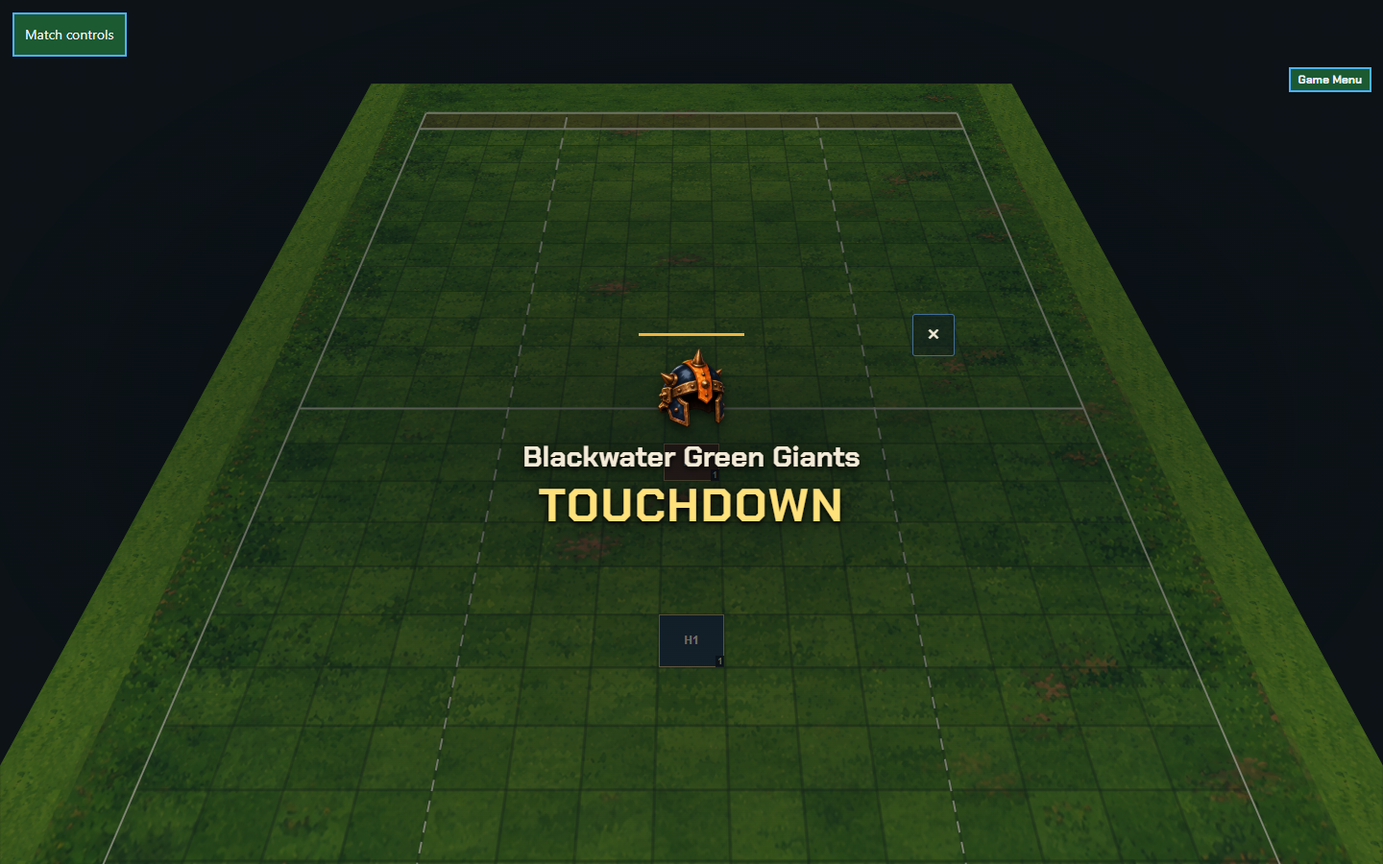
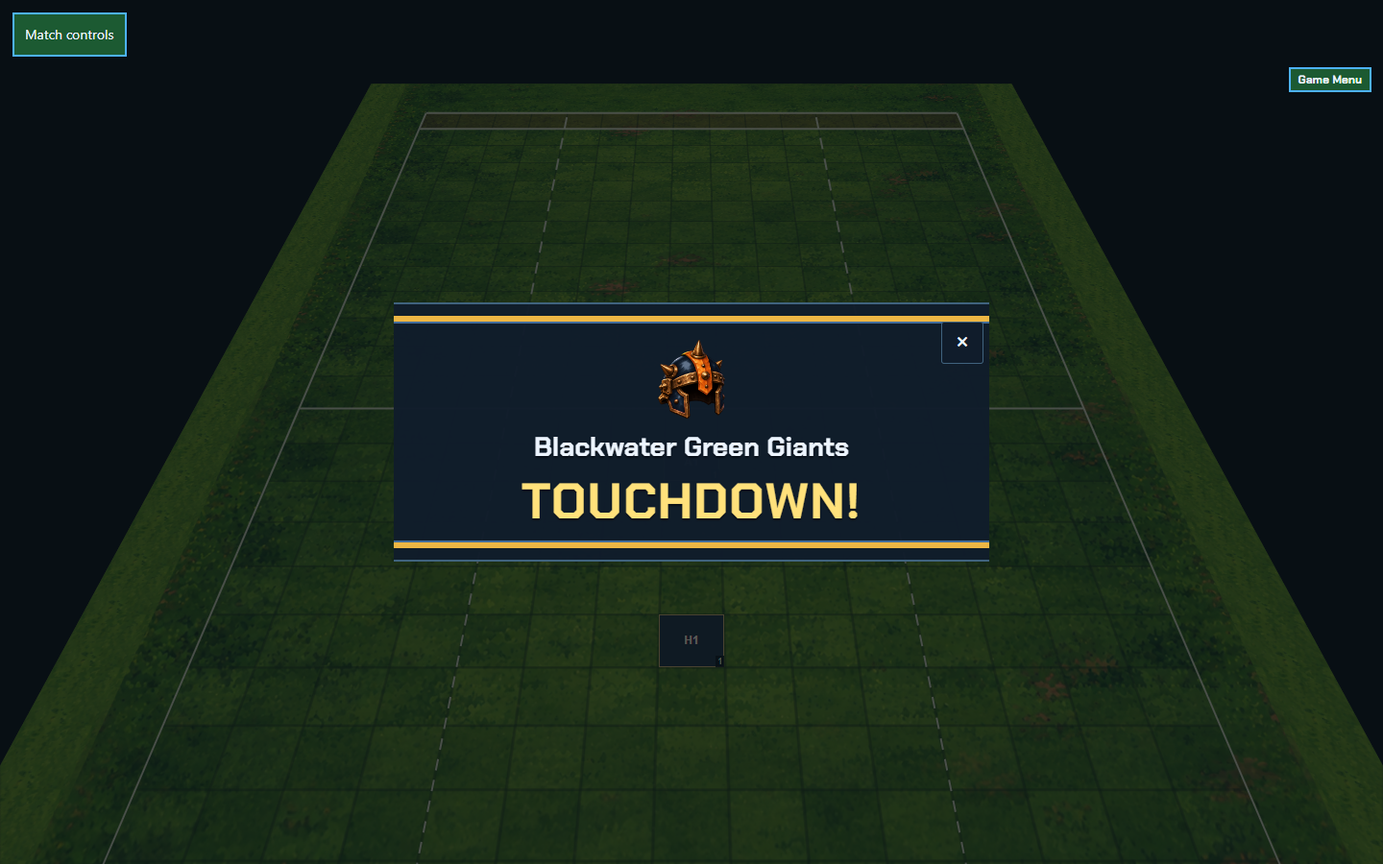
feat: animate core match splashes with phased playback (#565)

diff --git a/browser-client/src/match-splash.css b/browser-client/src/match-splash.css
@@ -1,43 +1,53 @@
 .live-pitch-viewport:has(.match-splash-shade) { isolation: isolate; }
 .match-splash-shade {
   position: absolute; inset: 0; z-index: 160; display: grid; justify-items: center; align-items: safe center;
-  padding: clamp(12px, 3vw, 40px); background: radial-gradient(ellipse at center, #050a12b8, #050a1266 75%); overflow: auto; overscroll-behavior: contain;
+  padding: clamp(12px, 3vw, 40px); background: #050a12aa; overflow: auto; overscroll-behavior: contain;
   cursor: default; box-sizing: border-box;
-  animation: match-splash-dim-in calc(200ms / var(--splash-rate, 1)) linear both;
+  animation: match-splash-dim-in calc(150ms / var(--splash-rate, 1)) linear both;
 }
 .play-runtime .match-splash-shade .match-splash {
-  --splash-accent: #edb644; --splash-secondary: #426c9b;
-  position: relative; isolation: isolate; width: min(560px, 100%); box-sizing: border-box;
-  margin: 0; padding: clamp(16px, 2.4vw, 26px); border: 0; border-radius: 0;
-  color: #f3ead7;
-  background: none; box-shadow: none; text-shadow: 0 2px 5px #000, 0 0 20px #0009;
+  --splash-accent: #edb644; --splash-secondary: #426c9b; --splash-direction: -1;
+  position: relative; isolation: isolate; width: min(620px, 100%); box-sizing: border-box;
+  margin: 0; padding: clamp(20px, 3vw, 36px); border: 0; border-radius: 0;
+  color: #edf5ff; background: none; box-shadow: none; text-shadow: 0 2px 2px #070d16;
   text-align: center; font-family: MUTP, sans-serif; overflow-wrap: anywhere;
-  animation: match-splash-enter calc(200ms / var(--splash-rate, 1)) linear both;
 }
-.play-runtime .match-splash-shade .match-splash-rule { height: 3px; background: var(--splash-accent); width: 44px; margin: 0 auto 10px; }
-.play-runtime .match-splash-shade .match-splash-icon { width: clamp(58px, 8vw, 88px); height: clamp(58px, 8vw, 88px); margin: 0 auto 10px; }
-.play-runtime .match-splash-shade .match-splash-icon .match-art { display: block; width: 100%; height: 100%; filter: drop-shadow(0 5px 5px #0008); }
-.play-runtime .match-splash-shade .match-splash .match-splash-team { margin: 0 0 8px; font-size: clamp(18px, 2.4vw, 30px); line-height: 1.2; }
-.play-runtime .match-splash-shade .match-splash h2 { margin: 0; font-family: MUTP, sans-serif; color: #ffe17b; font-size: clamp(27px, 3.7vw, 48px); line-height: 1.05; letter-spacing: .04em; }
-.play-runtime .match-splash-shade .match-splash-turnover h2 { color: #fff0d4; }
-.play-runtime .match-splash-shade .match-splash-turnover .match-splash-rule { width: 80px; background: repeating-linear-gradient(120deg,var(--splash-accent) 0 8px,transparent 8px 12px); }
-.play-runtime .match-splash-shade .match-splash-touchdown .match-splash-rule { width: 110px; }
-.play-runtime .match-splash-shade .match-splash-turnStart h2 { font-size: clamp(24px, 3.3vw, 42px); color: #d8e9fa; }
-.play-runtime .match-splash-shade .match-splash .match-splash-reason { font-family: inherit; margin: 16px auto 0; max-width: 48ch; font-size: clamp(16px, 1.8vw, 21px); line-height: 1.4; }
-.match-splash-shade[data-exiting=true] { animation: match-splash-dim-out calc(200ms / var(--splash-rate, 1)) ease-in both; }
-.play-runtime .match-splash-shade[data-exiting=true] .match-splash { animation: match-splash-exit calc(200ms / var(--splash-rate, 1)) ease-in both; }
+.play-runtime .match-splash-shade[data-team=away] .match-splash { --splash-direction: 1; }
+.match-splash-backdrop { position: absolute; inset: 0; z-index: -2; background: #101c2bf5; border-block: 2px solid #40637e; animation: splash-backdrop calc(150ms / var(--splash-rate, 1)) steps(4) both; }
+.match-splash-ribbon { position: absolute; inset: 14px 0; z-index: -1; border-block: 6px solid var(--splash-accent); box-shadow: inset 0 2px var(--splash-secondary), inset 0 -2px var(--splash-secondary); animation: splash-ribbon calc(200ms / var(--splash-rate, 1)) calc(150ms / var(--splash-rate, 1)) steps(5) both; }
+.play-runtime .match-splash-shade .match-splash-rule { display: none; }
+.play-runtime .match-splash-shade .match-splash-icon { width: clamp(58px, 8vw, 88px); height: clamp(58px, 8vw, 88px); margin: 0 auto 10px; animation: splash-impact calc(200ms / var(--splash-rate, 1)) calc(250ms / var(--splash-rate, 1)) steps(4) both; }
+.play-runtime .match-splash-shade .match-splash-icon .match-art { display: block; width: 100%; height: 100%; }
+.play-runtime .match-splash-shade .match-splash .match-splash-team { margin: 0 24px 12px; font-size: clamp(18px, 2.4vw, 28px); line-height: 1.2; text-wrap: balance; animation: match-splash-dim-in calc(150ms / var(--splash-rate, 1)) calc(550ms / var(--splash-rate, 1)) linear both; }
+.play-runtime .match-splash-shade .match-splash h2 { width: fit-content; max-width: 100%; margin: 0 auto; font-family: MUTP, sans-serif; color: #ffe17b; font-size: clamp(27px, 3.7vw, 52px); line-height: 1.05; letter-spacing: .025em; text-wrap: balance; animation: splash-impact calc(200ms / var(--splash-rate, 1)) calc(350ms / var(--splash-rate, 1)) steps(4) both; }
+.play-runtime .match-splash-shade .match-splash-turnover h2 { color: #edf5ff; }
+.play-runtime .match-splash-shade .match-splash-turnover { animation: splash-shake calc(150ms / var(--splash-rate, 1)) calc(450ms / var(--splash-rate, 1)) steps(3) both; }
+.match-splash-turnover .match-splash-ribbon { border-block-style: dashed; }
+.play-runtime .match-splash-shade .match-splash-turnStart h2 { font-size: clamp(24px, 3.3vw, 42px); color: #d9e9f7; animation-name: splash-turn; }
+.play-runtime .match-splash-shade .match-splash .match-splash-reason { font-family: inherit; margin: 16px auto 0; max-width: 48ch; font-size: clamp(16px, 1.8vw, 21px); line-height: 1.4; animation: match-splash-dim-in calc(150ms / var(--splash-rate, 1)) calc(550ms / var(--splash-rate, 1)) linear both; }
+.match-splash-shade[data-exiting=true] { animation: match-splash-dim-out calc(200ms / var(--splash-rate, 1)) linear both; }
+.play-runtime .match-splash-shade[data-exiting=true] .match-splash { animation: match-splash-exit calc(200ms / var(--splash-rate, 1)) steps(4) both; }
 @keyframes match-splash-dim-in { from { opacity: 0; } to { opacity: 1; } }
 @keyframes match-splash-dim-out { from { opacity: 1; } to { opacity: 0; } }
-@keyframes match-splash-enter { from { filter: blur(1.5px); } to { filter: blur(0); } }
-@keyframes match-splash-exit { from { filter: blur(0); transform: translateY(0); } to { filter: blur(3px); transform: translateY(-11px) scale(.95); } }
+@keyframes splash-backdrop { from { transform: scaleX(0); opacity: 0; } to { transform: scaleX(1); opacity: 1; } }
+@keyframes splash-ribbon { from { transform: scaleX(0); opacity: 0; } to { transform: scaleX(1); opacity: 1; } }
+@keyframes splash-impact { 0% { transform: translateY(-28px) scale(1.06); opacity: 0; } 65% { transform: translateY(3px) scale(.97); opacity: 1; } 100% { transform: translateY(0) scale(1); opacity: 1; } }
+@keyframes splash-turn { from { transform: scale(.96); opacity: 0; } to { transform: scale(1); opacity: 1; } }
+@keyframes splash-shake { 0%,100% { transform: translateX(0); } 33% { transform: translateX(-4px); } 66% { transform: translateX(4px); } }
+@keyframes match-splash-exit { from { transform: scaleX(1); opacity: 1; } to { transform: scaleX(.92); opacity: 0; } }
 @media(prefers-reduced-motion: reduce) {
-  .match-splash-shade, .play-runtime .match-splash-shade .match-splash { animation: none; }
-  .match-splash-shade[data-exiting=true] { visibility: hidden; }
+  .play-runtime .match-splash-shade .match-splash, .play-runtime .match-splash-shade .match-splash :is(.match-splash-icon, .match-splash-team, .match-splash-reason, h2, div) { animation: none; }
+  .play-runtime .match-splash-shade[data-exiting=true] .match-splash { animation: none; }
 }
 @media(max-height: 500px) {
   .play-runtime .match-splash-shade .match-splash-icon { width: 42px; height: 42px; margin-bottom: 4px; }
-  .play-runtime .match-splash-shade .match-splash { padding: 12px; }
+  .play-runtime .match-splash-shade .match-splash { padding: 20px; }
 }
-
-.play-runtime .match-splash-shade .match-splash-close { position: absolute; top: 6px; right: 6px; display: grid; place-items: center; width: 44px; height: 44px; min-height: 44px; margin: 0; padding: 0; border: 1px solid var(--splash-secondary); border-radius: 3px; color: #f3ead7; background: #09132066; font: 24px/1 sans-serif; cursor: pointer; }
+.play-runtime .match-splash-shade .match-splash-close { position: absolute; z-index: 1; top: 20px; right: 6px; display: grid; place-items: center; width: 44px; height: 44px; min-height: 44px; margin: 0; padding: 0; border: 1px solid #40637e; border-radius: 3px; color: #edf5ff; background: #101c2b; font: 24px/1 sans-serif; cursor: pointer; }
 .play-runtime .match-splash-shade .match-splash-close:focus-visible { outline: 3px solid #ffe17b; outline-offset: 2px; }
+
+
+
+
+
+.match-splash-ribbon { transform-origin: left center; } .match-splash-shade[data-team=away] .match-splash-ribbon { transform-origin: right center; }

diff --git a/browser-client/src/use-pitch-playback.ts b/browser-client/src/use-pitch-playback.ts
@@ -36,6 +36,7 @@ export function usePitchPlayback(view: SetupState, records: TranscriptRecord[], 
   const pendingAnnouncement = useRef<{ id: string; closing: boolean; advance: () => void } | null>(null);
   const announcementTimer = useRef<ReturnType<typeof setTimeout> | null>(null);
   const announcementTransitionTimer = useRef<ReturnType<typeof setTimeout> | null>(null);
+  const announcementExitComplete = useRef<(() => void) | null>(null);
   const announced = useRef(new Set<string>());
   const presented = useRef(view), received = useRef(view), latest = useRef(view);
   // Observation only: the revision whose first beat is being committed can be
@@ -63,6 +64,7 @@ export function usePitchPlayback(view: SetupState, records: TranscriptRecord[], 
     if (timer.current) clearTimeout(timer.current);
     pendingBeat.current = null;
     pendingAnnouncement.current = null; setAnnouncement(null);
+    announcementExitComplete.current = null;
     setAnnouncementExiting(false);
     if (announcementTimer.current) clearTimeout(announcementTimer.current);
     announcementTimer.current = null;
@@ -329,9 +331,10 @@ export function usePitchPlayback(view: SetupState, records: TranscriptRecord[], 
   useLayoutEffect(() => {
     const pending = pendingAnnouncement.current;
     if (!announcementExiting || !pending) return;
-    const reduced = window.matchMedia?.('(prefers-reduced-motion: reduce)').matches ?? false;
-    announcementTransitionTimer.current = setTimeout(() => {
+    const complete = () => {
       if (pendingAnnouncement.current !== pending) return;
+      announcementExitComplete.current = null;
+      if (announcementTransitionTimer.current) clearTimeout(announcementTransitionTimer.current);
       setAnnouncement(null);
       announcementTransitionTimer.current = setTimeout(() => {
         if (pendingAnnouncement.current !== pending) return;
@@ -340,15 +343,18 @@ export function usePitchPlayback(view: SetupState, records: TranscriptRecord[], 
         setAnnouncementExiting(false);
         pending.advance();
       }, ANNOUNCEMENT_GAP_MS / playbackRate(currentSpeed.current, mode));
-    }, reduced ? 0 : DICE_EXIT_MS / playbackRate(currentSpeed.current, mode));
+    };
+    announcementExitComplete.current = complete;
+    announcementTransitionTimer.current = setTimeout(complete, DICE_EXIT_MS / playbackRate(currentSpeed.current, mode));
     return () => {
+      announcementExitComplete.current = null;
       if (announcementTransitionTimer.current) clearTimeout(announcementTransitionTimer.current);
       announcementTransitionTimer.current = null;
     };
   }, [announcementExiting, mode]);
   useLayoutEffect(() => {
     if (!announcement || announcementExiting || announcementPreferences.holdAnnouncements) return;
-    const timeout = setTimeout(dismissAnnouncement, announcementDuration(announcement, playbackRate(speed, mode)));
+    const timeout = setTimeout(dismissAnnouncement, announcementDuration(announcement, playbackRate(speed, mode)) - DICE_EXIT_MS / playbackRate(speed, mode));
     announcementTimer.current = timeout;
     return () => { clearTimeout(timeout); };
   }, [announcement, announcementExiting, announcementPreferences.holdAnnouncements, speed, mode]);
@@ -360,6 +366,7 @@ export function usePitchPlayback(view: SetupState, records: TranscriptRecord[], 
     setTick(value => value + 1);
   };
   return { pitchView, presentationRevision: active ? Math.max(pitchView.revision, presentationRevision.current, diceMoment?.revision ?? -1) : pitchView.revision, provisionalActive: !!provisional.current, playbackActive: active, diceMoment, synchronizing, movementDuration: moveMillis, beginProvisional,
-    announcement, announcementExiting, announcementRate: playbackRate(speed, mode), dismissAnnouncement, ...announcementPreferences,
+    announcement, announcementExiting, announcementRate: playbackRate(speed, mode), dismissAnnouncement,
+    finishAnnouncementExit: () => announcementExitComplete.current?.(), ...announcementPreferences,
     diceSnapshot: pitchView.revision === snapshotRevision.current };
 }

diff --git a/browser-client/src/MatchSplash.tsx b/browser-client/src/MatchSplash.tsx
@@ -1,20 +1,28 @@
 import { useTeamColorContext } from './TeamColorArtProvider.tsx';
-import { useEffect } from 'react';
+import { useEffect, useState } from 'react';
 import type { CSSProperties, ReactNode } from 'react';
 import { MatchArt } from './MatchScoreboard.tsx';
 import { announcementHeadline, announcementText } from './match-announcements.ts';
 import type { MatchAnnouncement } from './match-announcements.ts';
 import './match-splash.css';
+import { teamColorRamps } from './team-color-art.ts';
 
 export type MatchSplashProps = {
   announcement: MatchAnnouncement; onDismiss: () => void; hold: boolean;
-  exiting: boolean; rate: number;
+  exiting: boolean; rate: number; onExited?: () => void;
   icon?: ReactNode; colors?: { accent?: string; secondary?: string };
 };
 
 /** No focus transfer: Escape and the explicit button dismiss without reaching pitch shortcuts. */
-export function MatchSplash({ announcement, onDismiss, hold, exiting, rate, icon, colors }: MatchSplashProps) {
+export function MatchSplash({ announcement, onDismiss, hold, exiting, rate, icon, colors, onExited }: MatchSplashProps) {
   const teamColors = useTeamColorContext();
+  const [phase, setPhase] = useState<'enter' | 'impact' | 'hold'>('enter');
+  useEffect(() => {
+    setPhase('enter');
+    const impact = setTimeout(() => setPhase('impact'), 350 / rate);
+    const hold = setTimeout(() => setPhase('hold'), 700 / rate);
+    return () => { clearTimeout(impact); clearTimeout(hold); };
+  }, [announcement.id, rate]);
   useEffect(() => {
     const escape = (event: KeyboardEvent) => {
       if (event.key !== 'Escape') return;
@@ -24,9 +32,12 @@ export function MatchSplash({ announcement, onDismiss, hold, exiting, rate, icon
     window.addEventListener('keydown', escape, true);
     return () => window.removeEventListener('keydown', escape, true);
   }, [onDismiss]);
-  const style = { '--splash-accent': colors?.accent, '--splash-secondary': colors?.secondary } as CSSProperties;
-  return <div className="match-splash-shade" data-announcement-id={announcement.id} data-exiting={exiting}
+  const kit = teamColors[announcement.team];
+  const style = { '--splash-accent': colors?.accent ?? teamColorRamps.find(ramp => ramp.id === kit?.primary)?.colors[9],
+    '--splash-secondary': colors?.secondary ?? teamColorRamps.find(ramp => ramp.id === kit?.secondary)?.colors[12] } as CSSProperties;
+  return <div className="match-splash-shade" data-announcement-id={announcement.id} data-exiting={exiting} data-phase={exiting ? 'exit' : phase} data-team={announcement.team}
     style={{ '--splash-rate': rate } as CSSProperties}
+    onAnimationEnd={event => { if (event.target === event.currentTarget && event.animationName === 'match-splash-dim-out' && exiting) onExited?.(); }}
     onPointerDown={event => event.stopPropagation()} onPointerUp={event => event.stopPropagation()}
     onClick={event => event.stopPropagation()} onDoubleClick={event => event.stopPropagation()}
     onContextMenu={event => { event.preventDefault(); event.stopPropagation(); }}
@@ -34,6 +45,8 @@ export function MatchSplash({ announcement, onDismiss, hold, exiting, rate, icon
     <section className={`match-splash match-splash-${announcement.kind}`} style={style} aria-label="Match announcement">
       {hold && <button type="button" className="match-splash-close" aria-label="Dismiss announcement" aria-keyshortcuts="Escape"
         onClick={event => { event.stopPropagation(); onDismiss(); }}><span aria-hidden="true">×</span></button>}
+      <div className="match-splash-backdrop" aria-hidden="true"/>
+      <div className="match-splash-ribbon" aria-hidden="true"/>
       <div className="match-splash-rule" aria-hidden="true"/>
       <div className="match-splash-icon" aria-hidden="true">{icon ?? <MatchArt name={announcement.helmet} colors={teamColors[announcement.team]}/>}</div>
       <p className="match-splash-team">{announcement.teamName}</p>

diff --git a/browser-client/test/splash-review.tsx b/browser-client/test/splash-review.tsx
@@ -1,0 +1,37 @@
+import { useState } from 'react';
+import { createRoot } from 'react-dom/client';
+import { MatchSplash } from '../src/MatchSplash.tsx';
+import type { MatchAnnouncement } from '../src/match-announcements.ts';
+import '../src/play-brand.css';
+import '../src/coach-match.css';
+
+const kinds: MatchAnnouncement['kind'][] = ['touchdown', 'turnover', 'turnStart'];
+function Review() {
+  const [kind, setKind] = useState<MatchAnnouncement['kind']>('touchdown');
+  const [serial, setSerial] = useState(0);
+  const [exiting, setExiting] = useState(false);
+  const [team, setTeam] = useState<'home' | 'away'>('home');
+  const [pair, setPair] = useState('gold');
+  const [rate, setRate] = useState(1);
+  const colors = pair === 'black' ? { accent: '#111111', secondary: '#111111' } : pair === 'white'
+    ? { accent: '#fafafa', secondary: '#eee8d5' } : { accent: '#edb644', secondary: '#426c9b' };
+  const restart = () => { setExiting(false); setSerial(value => value + 1); };
+  return <main className="play-runtime splash-review">
+    <style>{`.splash-review { display:grid; grid-template-rows:auto minmax(0,1fr); height:100dvh; max-width:none; margin:0; padding:0; } .splash-review nav { padding:8px; gap:8px; } .splash-review nav :is(label,select,button) { margin:0; } .splash-review .review-stage { height:auto; min-height:0; } body { margin:0; background:#070d16; color:#edf5ff; font-family:MUTP,sans-serif; } nav { position:relative; z-index:200; display:flex; flex-wrap:wrap; gap:12px; padding:12px; } label { display:flex; gap:8px; align-items:center; } select, button { min-height:44px; background:#101c2b; color:#edf5ff; border:1px solid #40637e; } .review-stage { position:relative; height:calc(100dvh - 100px); min-height:400px; background:#1c5a32 url('/assets/game/pitch/live-pitch.svg') center/cover; }`}</style>
+    <nav aria-label="Splash review controls">
+      <label>Event<select aria-label="Event" value={kind} onChange={e => { setKind(e.target.value as MatchAnnouncement['kind']); restart(); }}>{kinds.map(value => <option key={value}>{value}</option>)}</select></label>
+      <label>Team<select aria-label="Team" value={team} onChange={e => { setTeam(e.target.value as 'home' | 'away'); restart(); }}><option value="home">Human</option><option value="away">Orc</option></select></label>
+      <label>Colours<select aria-label="Colours" value={pair} onChange={e => { setPair(e.target.value); restart(); }}><option value="gold">Gold / blue</option><option value="black">Black / black</option><option value="white">White / ivory</option></select></label>
+      <label>Speed<select aria-label="Speed" value={rate} onChange={e => { setRate(Number(e.target.value)); restart(); }}><option value="1">1×</option><option value="2">2×</option><option value="4">4×</option></select></label>
+      <button onClick={restart}>Replay animation</button><button onClick={() => setExiting(true)}>Exit</button>
+    </nav>
+    <div className="review-stage"><MatchSplash key={serial} announcement={{ id: String(serial), kind, team, turn: 3, half: 1,
+      teamName: team === 'home' ? 'Altdorf Blue Badgers' : 'Blackwater Green Giants', helmet: team === 'home' ? 'human' : 'orc',
+      reason: kind === 'turnover' ? 'Pippin failed to dodge.' : null }} hold exiting={exiting} rate={rate} colors={colors} onDismiss={() => setExiting(true)}/></div>
+  </main>;
+}
+createRoot(document.getElementById('app')!).render(<Review/>);
+
+
+
+

diff --git a/browser-client/src/GameView.tsx b/browser-client/src/GameView.tsx
@@ -150,7 +150,7 @@ function GameViewContent({ view, connected, pending: requestPending, mutate, acc
   useEffect(() => () => { if (hoverTimer.current) clearTimeout(hoverTimer.current); }, []);
   const [x, setX] = useState(0); const [y, setY] = useState(0);
   const { pitchView, presentationRevision, provisionalActive, playbackActive, diceMoment, diceSnapshot, synchronizing, movementDuration, beginProvisional,
-    announcement, announcementExiting, announcementRate, dismissAnnouncement, holdAnnouncements } =
+    announcement, announcementExiting, announcementRate, dismissAnnouncement, finishAnnouncementExit, holdAnnouncements } =
     usePitchPlayback(view, logRecords, hosted && connected && !logUnavailable, 1, 'live', requestPending);
   useDiagnosticPresentation(view.revision, pitchView.revision, playbackActive, synchronizing, !!announcement, !!requestPending, 'live', 1, view.matchId, presentationRevision, provisionalActive);
   const pending = requestPending || (playbackActive ? 'playback' : null);
@@ -1133,7 +1133,7 @@ function GameViewContent({ view, connected, pending: requestPending, mutate, acc
       {!hosted && <p>Ball {view.ball ? `${view.ball.x}, ${view.ball.y}` : 'off pitch'} · active player {view.activePlayerId ?? 'none'}</p>}
       {hosted && <><div className="match-layout"><div className="match-board">
       <LivePitch view={pitchView} selectedId={kickoff && !kickoff.selected.includes(playerId) ? '' : playerId} selectedIds={kickoff?.selected ?? []} movementDuration={playbackActive ? movementDuration : 0}
-        splash={announcement ? { announcement, onDismiss: dismissAnnouncement, hold: holdAnnouncements, exiting: announcementExiting, rate: announcementRate } : undefined}
+        splash={announcement ? { announcement, onDismiss: dismissAnnouncement, onExited: finishAnnouncementExit, hold: holdAnnouncements, exiting: announcementExiting, rate: announcementRate } : undefined}
         interactionBlocked={!connected || !!pending || suspended}
         actions={playbackActive ? [] : pitchActions} pinnedAction={playbackActive ? undefined : pinnedAction}
         blockPreview={confirmedDice?.context ?? proposedBlocks}

diff --git a/browser-client/src/HostedResult.tsx b/browser-client/src/HostedResult.tsx
@@ -117,7 +117,7 @@ function ReplayBoardContent({ event, records, skipAnimations, speed, snapshotKey
   onBusy: (busy: boolean) => void; onRevision: (revision: number) => void;
 }) {
   const { pitchView, presentationRevision, playbackActive, diceMoment, diceSnapshot, movementDuration,
-    announcement, announcementExiting, announcementRate, dismissAnnouncement, holdAnnouncements } = usePitchPlayback(event.state, records, !skipAnimations, speed, 'replay', null, snapshotKey);
+    announcement, announcementExiting, announcementRate, dismissAnnouncement, finishAnnouncementExit, holdAnnouncements } = usePitchPlayback(event.state, records, !skipAnimations, speed, 'replay', null, snapshotKey);
   useDiagnosticPresentation(event.state.revision, pitchView.revision, playbackActive, false, !!announcement, false, 'replay', speed, `${event.state.matchId}:${snapshotKey ?? ''}`, presentationRevision);
   const [hover, setHover] = useState<{ id: string } | null>(null);
   const clearHover = useCallback(() => setHover(null), []);
@@ -133,7 +133,7 @@ function ReplayBoardContent({ event, records, skipAnimations, speed, snapshotKey
   const visibleDice = diceMoment ?? (!playbackActive && (skipAnimations || diceSnapshot) ? moments.at(-1) ?? null : null);
   return <><div className="replay-board">
     <LivePitch view={pitchView} selectedId="" actions={[]} readOnly allowEndChoice diceMoment={visibleDice}
-      splash={announcement ? { announcement, onDismiss: dismissAnnouncement, hold: holdAnnouncements, exiting: announcementExiting, rate: announcementRate } : undefined}
+      splash={announcement ? { announcement, onDismiss: dismissAnnouncement, onExited: finishAnnouncementExit, hold: holdAnnouncements, exiting: announcementExiting, rate: announcementRate } : undefined}
       diceSnapshot={skipAnimations || diceSnapshot && !playbackActive}
       interactionBlocked={interactionBlocked}
       animateBlockMarkers={!skipAnimations}

diff --git a/browser-client/test/announcement-ui-harness.tsx b/browser-client/test/announcement-ui-harness.tsx
@@ -29,7 +29,7 @@ function Harness() {
     <LivePitch view={playback.pitchView} selectedId="" actions={[]} showToolbar={false} debugOpen={false}
       readOnly={playback.playbackActive} playback={playback.playbackActive}
       diceMoment={playback.diceMoment} movementDuration={playback.movementDuration}
-      splash={playback.announcement ? { announcement: playback.announcement, onDismiss: playback.dismissAnnouncement,
+      splash={playback.announcement ? { announcement: playback.announcement, onDismiss: playback.dismissAnnouncement, onExited: playback.finishAnnouncementExit,
         hold: playback.holdAnnouncements, exiting: playback.announcementExiting, rate: playback.announcementRate, colors: input.colors } : undefined}
       onSquare={() => { window.pitchClicks++; }} onSelectPlayer={() => { window.pitchClicks++; }}/>
     </div></div></div>

diff --git a/browser-client/src/match-announcements.ts b/browser-client/src/match-announcements.ts
@@ -39,7 +39,7 @@ function announcementHelmet(view: SetupState, team: 'home' | 'away'): 'human' | 
 }
 
 export function announcementHeadline(event: MatchAnnouncementEvent): string {
-  return event.kind === 'turnStart' ? `START OF TURN ${event.turn}` : event.kind === 'touchdown' ? 'TOUCHDOWN' : 'TURNOVER';
+  return event.kind === 'turnStart' ? `START OF TURN ${event.turn}` : event.kind === 'touchdown' ? 'TOUCHDOWN!' : 'TURNOVER';
 }
 
 export function announcementText(event: MatchAnnouncement): string {

diff --git a/browser-client/splash-review.html b/browser-client/splash-review.html
@@ -1,0 +1,1 @@
+<!doctype html><html lang="en"><head><meta charset="UTF-8"><meta name="viewport" content="width=device-width, initial-scale=1"><title>Match splash review</title></head><body><div id="app"></div><script type="module" src="/test/splash-review.tsx"></script></body></html>

diff --git a/docs/specs/animated-match-splashes-outcome.md b/docs/specs/animated-match-splashes-outcome.md
@@ -1,0 +1,53 @@
+# Animated match splashes — implementation outcome
+
+Issue: https://github.com/the-grognard-codes/fumbbl-rebuild/issues/565
+Branch: `codex/565-animated-splashes`; isolated worktree `.worktrees/565`.
+
+## Tier 1
+
+Implemented shared enter → impact → hold → exit phases. CSS animates transform
+and opacity only; React updates at phase boundaries. The existing queue retains
+required-choice priority, dedupe, reconnect and seek suppression. Animation-end
+completes exit with a timer fallback. Exit now fits inside the total duration.
+Saved team ramps colour ribbons; text stays on dark navy independent of kit
+contrast. Reduced motion retains fades and removes spatial child animations.
+
+Review page: `browser-client/splash-review.html`, served by Vite.
+Captures: `.tools/animated-splashes/round-{1,2,3}/` (local generated evidence).
+Each round includes six timed frames per core kind at 1440 and 390 widths,
+Human/Orc, gold/blue, black/black, white/ivory, and reduced motion.
+
+### Visual review rounds
+
+1. Initial captures exposed missing production font in the review page,
+   descendant motion overriding reduced-motion CSS, and a wide headline
+   transform overflowing its card. Fixed font loading, selector specificity,
+   and bounded headline overshoot. The animated ribbon is contained.
+2. Phone review controls consumed too much vertical space; review stage extended
+   beyond its viewport. Ribbon origin did not distinguish teams and touchdown
+   lacked its requested punctuation. Fixed grid sizing, directional origin and
+   `TOUCHDOWN!`.
+3. Captured corrected output at desktop and phone sizes. Text remains legible
+   on a constant dark plate for extreme kit pairs. Motion uses stepped impact,
+   restrained turn-start scaling, and a torn turnover ribbon. The helmet and
+   ribbon carry identity; no copied third-party artwork or runtime dependencies.
+
+### Validation
+
+- Browser unit suite: 540 passed before final Tier 1 run.
+- Announcement UI: ordering, dismissal, hold, mandatory choices, dedupe,
+  hidden-tab recovery, reconnect, replay seeks/speed and responsive long text.
+- Added phase assertions and 50 consecutive splashes with equal baseline DOM.
+- TypeScript and production build passed.
+- Final affected UI and unit validation pending below.
+
+One colour UI run was interrupted by our source edit triggering Vite reload;
+rerun without concurrent edits. No product failure inferred from that run.
+
+## Remaining scope
+
+Tier 2 authoritative kickoff/weather/half/final events; Tier 3 optional drama
+and decorative effects; expanded review rounds and live Bogruk validation.
+No merge, ready-for-review transition or deployment is authorized.
+
+Tier 1 final validation: all 540 browser unit tests, announcement UI (including 50 splashes), team-colour UI, playback UI, DOM-growth UI, TypeScript and production build passed. No Java changes in Tier 1.

diff --git a/CHANGELOG.md b/CHANGELOG.md
@@ -2,6 +2,8 @@
 
 ## Unreleased
 
+- Animate match announcements with stepped ribbons and headline impacts, saved team colours, reduced-motion fades, and exits included in playback timing.
+
 - Limit each kick-off selection or placement stage to 50 adjustments for every coach; reject extra edits without ending the event, preserve confirmation after reverting an illegal final formation, and let the computer coach finish Solid Defence and Charge without retained plans. Offer Solid Defence placements and swaps only for selected players, including during interrupted stages. End runaway turns with match-specific diagnostics.
 
 - Reject checkpoint diagnostics with missing fixture files and accept the zero-decision baseline regardless of fixture order.
